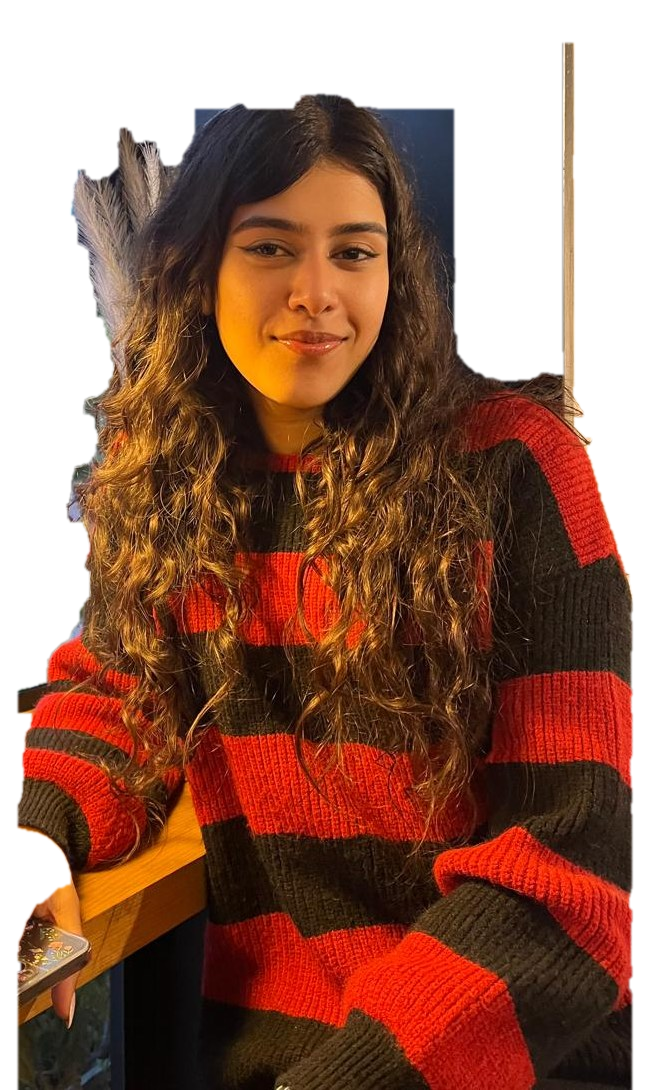
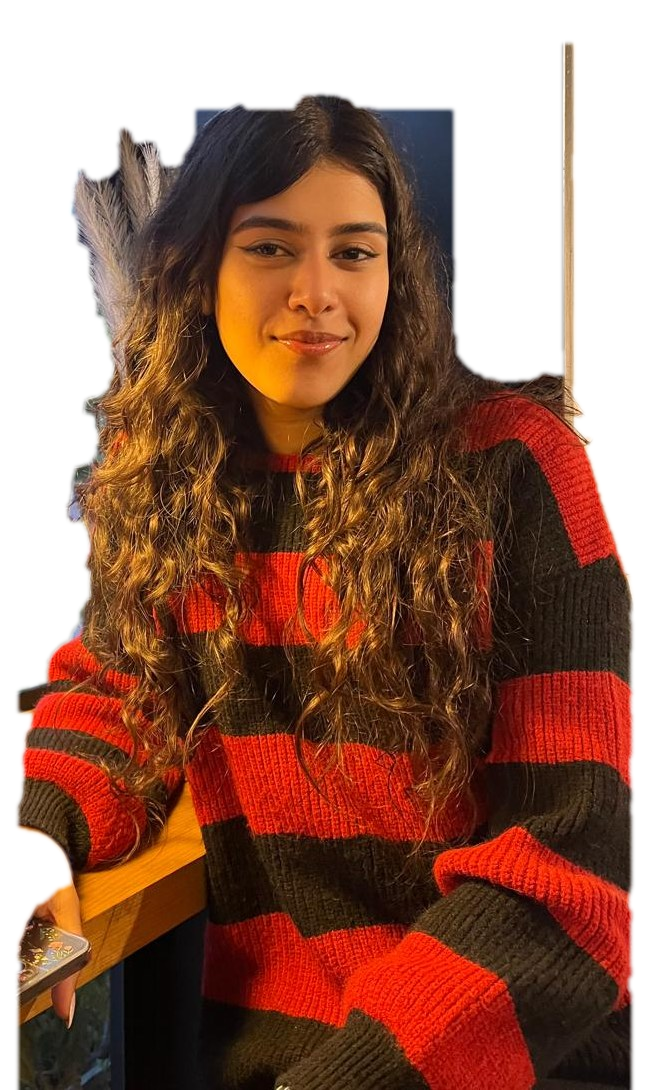
Add doodle outline, glow, and float/breathe/draw-in animations to hero photo for better blend

diff --git a/style.css b/style.css
@@ -781,7 +781,93 @@ nav {
   max-width: 100%;
   object-fit: contain;
   object-position: bottom center;
-  filter: contrast(1.04) saturate(1.05);
+  filter: contrast(1.04) saturate(1.05) drop-shadow(0 18px 34px rgba(0,0,0,0.55));
+  animation: photoFloat 6s ease-in-out infinite;
+}
+
+.hero-glow {
+  position: absolute;
+  z-index: 0;
+  top: 12%;
+  left: 50%;
+  transform: translateX(-50%);
+  width: 380px;
+  height: 380px;
+  border-radius: 50%;
+  background: radial-gradient(circle, rgba(232,213,176,0.20) 0%, rgba(232,213,176,0.06) 45%, rgba(232,213,176,0) 72%);
+  filter: blur(4px);
+}
+
+.hero-doodle {
+  position: absolute;
+  z-index: 2;
+  top: 0; left: 0;
+  width: 100%;
+  height: 100%;
+  pointer-events: none;
+}
+
+.hero-doodle path {
+  fill: none;
+  stroke: var(--accent);
+  stroke-width: 1.6;
+  stroke-linecap: round;
+  opacity: 0.75;
+  stroke-dasharray: 1400;
+  stroke-dashoffset: 1400;
+  animation: doodleDraw 2.2s ease-out 0.4s forwards;
+}
+
+@keyframes doodleDraw {
+  to { stroke-dashoffset: 0; }
+}
+
+@keyframes photoFloat {
+  0%, 100% { transform: translateY(0); }
+  50% { transform: translateY(-10px); }
+}
+
+.hero-blob {
+  animation: blobBreathe 8s ease-in-out infinite;
+  transform-origin: center;
+}
+
+@keyframes blobBreathe {
+  0%, 100% { transform: translateX(-50%) scale(1) rotate(0deg); }
+  50% { transform: translateX(-50%) scale(1.035) rotate(2deg); }
+}
+
+.hero-connector path {
+  stroke-dasharray: 120;
+  stroke-dashoffset: 120;
+  animation: connectorDraw 1s ease-out 1.4s forwards;
+}
+
+@keyframes connectorDraw {
+  to { stroke-dashoffset: 0; }
+}
+
+.hero-float-stat {
+  opacity: 0;
+  animation: statPop 0.6s ease-out forwards;
+}
+
+.hero-float-stat--a { animation-delay: 1.7s; }
+.hero-float-stat--b { animation-delay: 1.9s; }
+
+@keyframes statPop {
+  from { opacity: 0; transform: translateY(8px); }
+  to { opacity: 1; transform: translateY(0); }
+}
+
+@media (prefers-reduced-motion: reduce) {
+  .hero-cutout, .hero-blob, .hero-doodle path, .hero-connector path, .hero-float-stat {
+    animation: none !important;
+    opacity: 1 !important;
+    stroke-dashoffset: 0 !important;
+    transform: none !important;
+  }
+  .hero-blob { transform: translateX(-50%) !important; }
 }
 
 .hero-float-stat {

diff --git a/index.html b/index.html
@@ -53,7 +53,12 @@
               <svg class="hero-blob" viewBox="0 0 340 340" xmlns="http://www.w3.org/2000/svg">
                 <path style="fill: var(--accent2); opacity: 0.16;" d="M170 8c46 0 60 42 96 54s76 6 84 50-30 62-30 96 40 54 24 96-70 40-104 62-46 56-90 56-52-40-90-58-90-16-104-58 20-64 20-98-38-56-22-98 70-40 106-52 64-2 110 2z"/>
               </svg>
+              <div class="hero-glow"></div>
               <img class="hero-cutout" src="images/sameen-cutout.png" alt="Sameen Nauman">
+
+              <svg class="hero-doodle" viewBox="0 0 400 640" xmlns="http://www.w3.org/2000/svg">
+                <path d="M 378.5 300.0 C 376.7 319.4, 378.5 381.8, 367.7 416.2 C 356.9 450.6, 335.6 485.7, 313.9 506.3 C 292.1 526.9, 262.5 533.6, 237.2 539.6 C 211.9 545.6, 187.8 547.1, 162.3 542.0 C 136.8 536.9, 102.3 531.9, 84.4 508.8 C 66.5 485.7, 66.2 438.3, 54.8 403.5 C 43.4 368.7, 19.3 336.4, 16.0 300.0 C 12.7 263.6, 22.2 218.3, 34.8 185.2 C 47.4 152.1, 70.2 122.8, 91.4 101.6 C 112.7 80.4, 137.9 65.0, 162.3 57.9 C 186.7 50.8, 213.8 50.5, 237.6 58.7 C 261.4 66.9, 285.0 85.2, 304.8 107.1 C 324.6 129.0, 344.0 158.0, 356.3 190.2 C 368.6 222.3, 376.6 262.3, 378.5 300.0" />
+              </svg>
 
               <div class="hero-float-stat hero-float-stat--a">
                 <div class="flt-num">4+</div>
